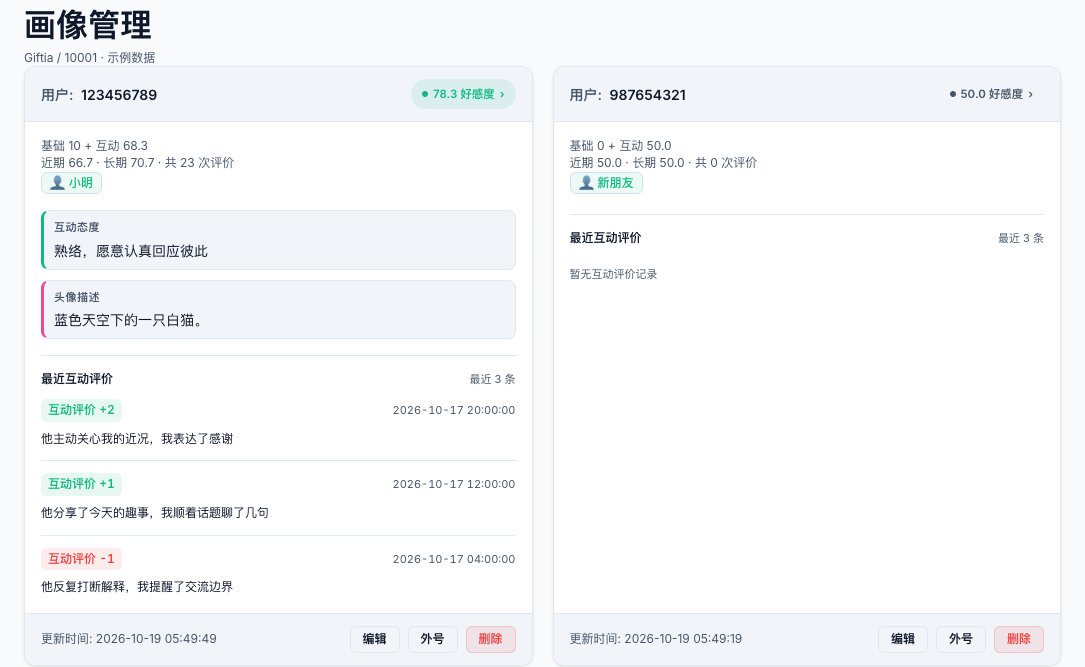
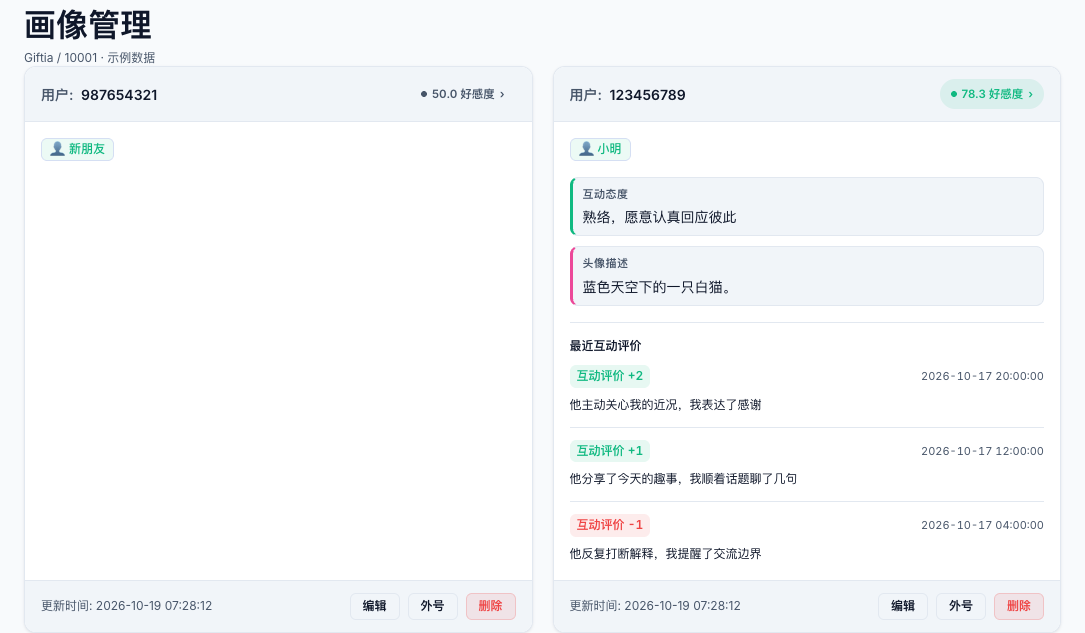
``` feat(memory-dashboard): 更新好感度展示逻辑和交互评价历史弹窗
- 画像管理中原来的性格风格、兴趣话题等入口已移除，相关内容在"长期记忆"中作为事实保存
- 成员卡片顶部展示最终好感度，基础分、互动分、近期分、长期分和评价计数统一在好感度弹窗中查看
- 卡片下方展示最近三次互动评价，按最新在前排列，没有历史时隐藏整个"最近互动评价"区域
- 点击卡片顶部好感度药丸打开"互动评价历史"弹窗，展示分数构成、评价计数和完整历史记录
- 添加了关系分数摘要样式，支持移动端适配，优化了历史记录滚动行为
- 更新了文档说明交互评价历史的查看方式和显示内容
```

diff --git a/pages/giftia_dashboard/js/modules/render/profiles.js b/pages/giftia_dashboard/js/modules/render/profiles.js
@@ -88,9 +88,15 @@ export function renderUserProfiles(items) {
 
         const rel = Number(item.relation ?? 50).toFixed(1);
         const interaction = Number(item.interaction_score ?? 50);
-        const base = Number(item.base_relation ?? 0);
         const relationClass = interaction > 50 ? 'badge-success' : interaction < 50 ? 'badge-danger' : 'badge-secondary';
-        const relationBadge = `<button type="button" class="badge ${relationClass} profile-relation-badge" data-profile-action="relation-history" title="查看全部互动评价历史" aria-label="好感度 ${rel}，查看全部互动评价历史">${rel} 好感度 <span aria-hidden="true">›</span></button>`;
+        const relationBadge = `<button type="button" class="badge ${relationClass} profile-relation-badge" data-profile-action="relation-history" title="查看好感度详情与互动评价历史" aria-label="好感度 ${rel}，查看好感度详情与互动评价历史">${rel} 好感度 <span aria-hidden="true">›</span></button>`;
+        const recentChanges = (item.recent_relation_changes || []).slice(0, 3);
+        const historyHtml = recentChanges.length ? `
+            <section class="profile-relation-history" aria-label="最近互动评价">
+                <h3 class="profile-history-heading">最近互动评价</h3>
+                ${renderRelationChanges(recentChanges)}
+            </section>
+        ` : '';
 
         return `
             <div class="profile-item-card card" data-profile-index="${index}">
@@ -104,13 +110,8 @@ export function renderUserProfiles(items) {
                     </div>
                 </div>
                 <div class="profile-card-body">
-                    <p class="muted-text">基础 ${base} + 互动 ${interaction.toFixed(1)}</p>
-                    <p class="muted-text">近期 ${Number(item.recent_score ?? 50).toFixed(1)} · 长期 ${Number(item.long_term_score ?? 50).toFixed(1)} · 共 ${Number(item.total_count ?? 0)} 次评价</p>
                     ${profileHtml}
-                    <section class="profile-relation-history" aria-label="最近互动评价">
-                        <h3 class="profile-history-heading">最近互动评价 <span>最近 3 条</span></h3>
-                        ${renderRelationChanges((item.recent_relation_changes || []).slice(0, 3))}
-                    </section>
+                    ${historyHtml}
                 </div>
                 <div class="profile-card-footer">
                     <div class="profile-card-time">

diff --git a/pages/giftia_dashboard/js/modals/relation_history.js b/pages/giftia_dashboard/js/modals/relation_history.js
@@ -11,6 +11,23 @@ window.openUserRelationHistoryModal = async function(item) {
     };
     const name = item.call_name ? `${item.call_name}（${item.user_id}）` : String(item.user_id);
     document.getElementById('user-relation-history-scope').textContent = `${name} · ${item.bot_name} / ${item.group_or_user_id}`;
+    document.getElementById('user-relation-history-summary').innerHTML = `
+        <div class="relation-score-total">
+            <span class="relation-score-label">当前好感度</span>
+            <strong class="relation-score-value">${Number(item.relation ?? 50).toFixed(1)}</strong>
+            <span class="relation-score-formula">基础 ${Number(item.base_relation ?? 0)} + 互动 ${Number(item.interaction_score ?? 50).toFixed(1)}</span>
+        </div>
+        <dl class="relation-score-windows">
+            <div>
+                <dt>近期分</dt>
+                <dd>${Number(item.recent_score ?? 50).toFixed(1)}<span>最近 ${Number(item.recent_count ?? 0)} 次评价</span></dd>
+            </div>
+            <div>
+                <dt>长期分</dt>
+                <dd>${Number(item.long_term_score ?? 50).toFixed(1)}<span>累计 ${Number(item.total_count ?? 0)} 次评价</span></dd>
+            </div>
+        </dl>
+    `;
     window.openModal('user-relation-history-modal');
     await window.loadUserRelationHistory(1);
 };
@@ -31,7 +48,7 @@ window.loadUserRelationHistory = async function(page = 1) {
             throw new Error(res.message || '请求失败');
         }
         list.innerHTML = renderRelationChanges(res.data.items || []);
-        list.scrollTop = 0;
+        document.getElementById('user-relation-history-content').scrollTop = 0;
         const paginationState = { page: res.data.page, limit: 10, total: res.data.total };
         window.renderPagination('user-relation-history-pagination', paginationState,
             nextPage => window.loadUserRelationHistory(nextPage));

diff --git a/pages/giftia_dashboard/css/modals/profile.css b/pages/giftia_dashboard/css/modals/profile.css
@@ -17,9 +17,65 @@
     overflow-wrap: anywhere;
 }
 
+.relation-score-summary {
+    display: grid;
+    grid-template-columns: 1fr 1.5fr;
+    flex-shrink: 0;
+    gap: 24px;
+    margin-bottom: 16px;
+    padding: 18px 20px;
+    border: 1px solid var(--border-color);
+    border-radius: 12px;
+    background: var(--bg-secondary);
+}
+
+.relation-score-total {
+    display: flex;
+    flex-direction: column;
+    gap: 4px;
+    min-width: 0;
+}
+
+.relation-score-label,
+.relation-score-formula,
+.relation-score-windows dt,
+.relation-score-windows dd span {
+    color: var(--font-secondary);
+    font-size: 12px;
+}
+
+.relation-score-value {
+    font-size: 28px;
+    line-height: 1.3;
+}
+
+.relation-score-windows {
+    display: grid;
+    grid-template-columns: repeat(2, minmax(0, 1fr));
+    align-items: center;
+    gap: 16px;
+    margin: 0;
+}
+
+.relation-score-windows dd {
+    margin: 4px 0 0;
+    font-size: 20px;
+    font-weight: 600;
+}
+
+.relation-score-windows dd span {
+    display: block;
+    margin-top: 4px;
+    font-weight: 400;
+}
+
+#user-relation-history-content {
+    display: block;
+    margin-bottom: 0;
+}
+
 #user-relation-history-list {
     min-height: 100px;
-    margin-bottom: 0;
 }
 
 #user-relation-history-list .relation-change-item {
@@ -62,6 +118,14 @@
 .alias-count-input {
     width: 88px;
     min-width: 88px;
+}
+
+@media (max-width: 480px) {
+    .relation-score-summary {
+        grid-template-columns: 1fr;
+        gap: 16px;
+        padding: 16px;
+    }
 }
 
 @media (max-width: 768px) {

diff --git a/pages/giftia_dashboard/index.html b/pages/giftia_dashboard/index.html
@@ -1036,7 +1036,10 @@
                 <button type="button" class="modal-close-btn" variant="text" aria-label="关闭互动评价历史" onclick="closeModal('user-relation-history-modal')">&times;</button>
             </div>
             <p id="user-relation-history-scope" class="muted-text"></p>
-            <div id="user-relation-history-list" class="modal-body" aria-live="polite"></div>
+            <div id="user-relation-history-content" class="modal-body">
+                <section id="user-relation-history-summary" class="relation-score-summary" aria-label="好感度详情"></section>
+                <div id="user-relation-history-list" aria-live="polite"></div>
+            </div>
             <div id="user-relation-history-pagination" class="pagination-container"></div>
         </div>
     </div>

diff --git a/docs/en/memory-dashboard.md b/docs/en/memory-dashboard.md
@@ -21,15 +21,16 @@ Open Giftia WebUI from the AstrBot plugin page and select **长期记忆 (Long-t
 | Names, aliases, attitude and avatar descriptions | Continue to use profile management |
 | Editing cumulative affinity directly | Edit the affinity base score; final affinity is base plus interaction score |
 | Affinity-change history and before/after scores | Interaction-rating history, displaying only timestamps, ratings and reasons |
+| Score breakdowns and evaluation counts on member cards | Click a card's affinity pill to view them in the dialog |
 | Recent-memory injection and the recall-pool switch | One recall pool; set its injection limit to zero to disable automatic retrieval and injection |
 
-Member cards display final affinity, base, interaction, recent and long-term scores, and the evaluation count, followed by the latest three interaction ratings in newest-first order. Each entry shows only its time, rating strength and reason. Fewer entries are shown when history is short, with an empty state for members without recorded changes. Filter long-term memories by account to inspect a member's facts.
+Member cards display final affinity at the top. Base, interaction, recent and long-term scores and evaluation counts are available in the affinity dialog. Cards show the latest three interaction ratings in newest-first order, with only the time, rating strength and reason for each entry. Fewer entries are shown when history is short; the entire recent-rating section is hidden when there are no records. Filter long-term memories by account to inspect a member's facts.
 
 ![Member cards with the latest three interaction ratings, using example data](../images/member-profile-history.png)
 
-Click a card's affinity pill to open that member's complete interaction-rating history for the exact bot and conversation. The dialog shows ten entries per page, page numbers, previous/next controls, the current record range and total count. The final page contains the remaining entries. Browsing history is independent of the fifty-entry context window used by background tone reviews. Failed requests offer a retry button.
+Click a card's affinity pill to open the interaction-rating history dialog for the exact bot and conversation. Its summary shows final affinity, the base and interaction components, recent and long-term scores and their evaluation counts. History appears below with ten entries per page, page numbers, previous/next controls, the current record range and total count. The final page contains the remaining entries. Members without history still have a score summary, followed by an empty state in the record area. Browsing history is independent of the fifty-entry context window used by background tone reviews. Failed requests offer a retry button.
 
-![Complete affinity history with ten entries per page, using example data](../images/member-relation-history.png)
+![Affinity dialog with score breakdowns, evaluation counts and ten history entries per page, using example data](../images/member-relation-history.png)
 
 Historical profile fields remain in storage. Profile reports no longer read or display personality, interests, miscellaneous notes, agreements or relationship titles. Update custom report templates that reference retired variables or restore their defaults.
 

diff --git a/docs/zh/memory-dashboard.md b/docs/zh/memory-dashboard.md
@@ -19,15 +19,16 @@
 | 称呼、外号、互动态度、头像描述 | 继续在画像管理维护 |
 | 直接编辑累计好感度 | 改为编辑“好感度基础分”；最终分由基础分与互动分相加 |
 | 好感度变化历史、好感度前后值 | 改为“互动评价历史”，仅展示时间、评价强度和理由 |
+| 卡片上的好感度构成、评价计数 | 点击卡片顶部的好感度，在弹窗中查看 |
 | 近期记忆直接注入、启用会话召回池开关 | 统一使用会话召回池；注入记忆数量设为 0 可关闭自动检索与自动注入 |
 
-成员卡片直接展示最终好感度、基础分、互动分、近期分、长期分和评价条数。卡片下方展示最近三次互动评价，按最新在前排列，仅包含时间、评价强度和理由；不足三次时展示已有记录，没有历史时显示空状态。卡片不展示近期记忆；请在“长期记忆”按用户账号筛选相关事实。
+成员卡片顶部展示最终好感度，基础分、互动分、近期分、长期分和评价计数统一在好感度弹窗中查看。卡片下方展示最近三次互动评价，按最新在前排列，仅包含时间、评价强度和理由；不足三次时展示已有记录，没有历史时隐藏整个“最近互动评价”区域。卡片不展示近期记忆；请在“长期记忆”按用户账号筛选相关事实。
 
 ![成员卡片展示最近三次互动评价，使用示例数据](../images/member-profile-history.png)
 
-点击卡片顶部的好感度药丸，打开该成员在当前 Bot、当前会话下的全部互动评价历史。弹窗每页固定 10 条，可通过页码或上一页、下一页翻页，底部显示记录范围与总条数；末页只显示剩余记录。历史浏览不受后台评估最多 50 条的上下文窗口限制。加载失败时可点击“重试”。
+点击卡片顶部的好感度药丸，打开“互动评价历史”弹窗。顶部展示该成员在当前 Bot、当前会话下的最终好感度、基础分与互动分构成，以及近期分、长期分和各自的评价计数。下方每页固定 10 条历史记录，可通过页码或上一页、下一页翻页，底部显示记录范围与总条数；末页只显示剩余记录。没有历史时仍可查看分数构成，记录区显示空状态。历史浏览不受后台评估最多 50 条的上下文窗口限制。加载失败时可点击“重试”。
 
-![点击好感度药丸打开每页十条的完整历史，使用示例数据](../images/member-relation-history.png)
+![好感度弹窗展示分数构成、评价计数和每页十条的完整历史，使用示例数据](../images/member-relation-history.png)
 
 旧画像字段仍保留在数据库中，用户画像报告不再读取和展示性格风格、兴趣话题、其他补充、关键约定和关系称谓。自定义报告模板若仍引用旧变量，需删除相应内容或恢复默认模板。
 

diff --git a/DETAIL.md b/DETAIL.md
@@ -150,7 +150,7 @@
 
 编辑可调整内容、重要度和关联群友，主题与原话证据保留，人工修改留下标记。并发修改时要求刷新后重试。旧记忆正文和证据不会因移除类型、状态和整理功能而删除。
 
-画像管理原来的性格风格、兴趣话题、其他补充、关键约定和关系头衔入口已移除；有依据的内容在“长期记忆”中作为事实保存。称呼、外号、互动态度、好感度和头像描述仍在“画像管理”，卡片直接展示，原“画像／关系”子页签已取消。卡片展示最近三次互动评价的时间、评价强度和理由，点击顶部好感度药丸可打开“互动评价历史”分页查看完整记录，每页 10 条，按最新在前排列。旧字段保留在数据库中，保存简化画像不会清空它们。用户画像报告不读取和展示这五项，自定义模板若仍引用旧变量，需删除相应内容或恢复默认模板。
+画像管理原来的性格风格、兴趣话题、其他补充、关键约定和关系头衔入口已移除；有依据的内容在“长期记忆”中作为事实保存。称呼、外号、互动态度、最终好感度和头像描述仍在“画像管理”，卡片直接展示，原“画像／关系”子页签已取消。卡片仅在有记录时展示最近三次互动评价的时间、评价强度和理由。点击顶部好感度药丸可打开“互动评价历史”，查看基础分、互动分、近期分、长期分和评价计数，以及按最新在前排列的完整记录，每页 10 条。旧字段保留在数据库中，保存简化画像不会清空它们。用户画像报告不读取和展示这五项，自定义模板若仍引用旧变量，需删除相应内容或恢复默认模板。
 
 好感度采用“基础分 + 互动分”。基础分默认0，管理员在“画像管理 → 编辑 → 好感度基础分”设置；互动分初始50、范围0～100。近期分取最近10次有效评价，长期分取全部评价，各自按 `100 × (5 + 正向分值总和) / (10 + 正向分值总和 + 负向分值绝对值总和)` 计算，再按60%近期、40%长期合成。最终分允许因基础分超过100或低于0，展示一位小数。旧累计值不再读取或迁移。
 
